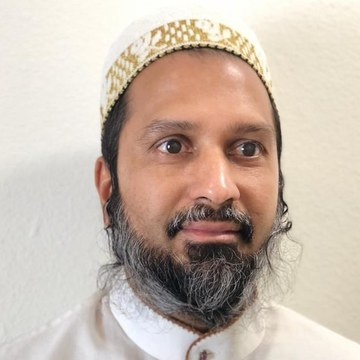
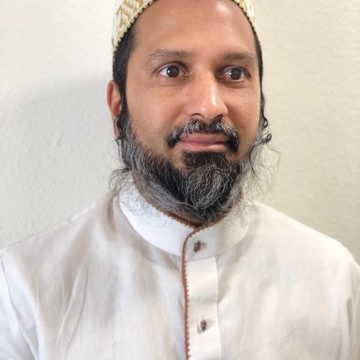
Five speaker portraits
Mufaddal Khambaty and Tasneem Talib Ali stop showing initials; Abdeali
Nagarwala, Alifya Kagalwala and Yusuf Hakim get replacements.

All squared and resized to 360x360. Crops are not centred: three originals have
the face high or off-centre, where a naive centre crop takes the top off
someone's head. Each framed by eye and checked at avatar and card size.

Two filenames were resolved by surname rather than guessed — "Muffadal
khambaty" is Mufaddal Khambaty, "Tasneen Ali" is Tasneem Talib Ali.

A sixth file, "Willette LeGrant, US-SBA", is somebody not on the roster and is
not added: no session, title or confirmation to attach.

No markup changed — the page already referenced every filename.

diff --git a/CHANGELOG.md b/CHANGELOG.md
@@ -25,6 +25,28 @@ and do not need to be served (harmless if they are).
 
 ## Unreleased
 
+### Five speaker portraits
+Mufaddal Khambaty and Tasneem Talib Ali stop showing initials; Abdeali
+Nagarwala, Alifya Kagalwala and Yusuf Hakim get replacements.
+
+All squared and resized to 360×360 to match every other portrait. The crops are
+**not** centred: three originals are portrait or landscape orientation with the
+face high or off-centre, and a naive centre crop takes the top off someone's
+head. Each was framed by eye and checked at both 64px circular and card size
+before committing.
+
+Two filenames did not match a speaker and were resolved by surname rather than
+guessed — "Muffadal khambaty" is Mufaddal Khambaty, and "Tasneen Ali" is
+Tasneem Talib Ali, where the other Tasneem on the roster is Tasneem Khokha.
+
+A sixth file, "Willette LeGrant, US-SBA", is an official portrait of somebody
+**not on the roster**, and is not added. There is no session, title or
+confirmation to attach to her, and inventing any of those is how a stranger
+ends up published as a speaker.
+
+Deploy: copy `img/`. No markup changed — the page already referenced every one
+of these filenames and was falling back to initials.
+
 ### Sunday's keynote is Abeezar Tybejee
 The Sunday 11:00 slot read "Keynote Open" in the committee's draft — a keynote
 with no session and no speaker — and this page carried it as a pending card
